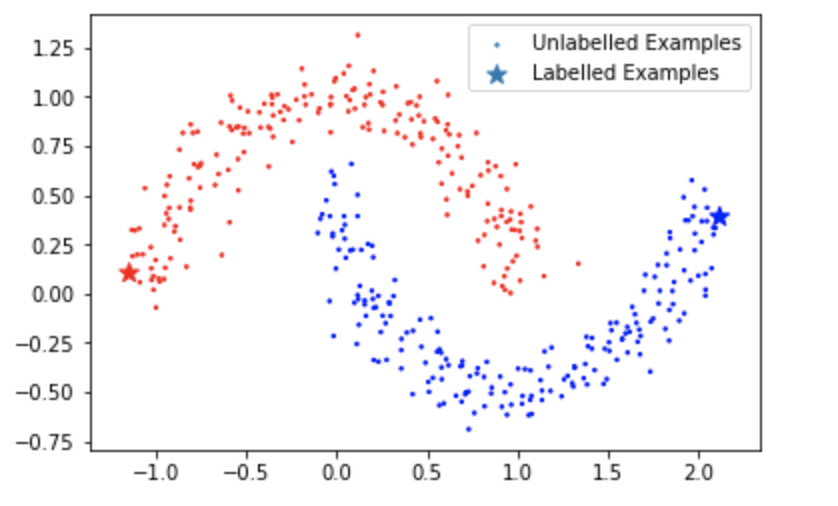
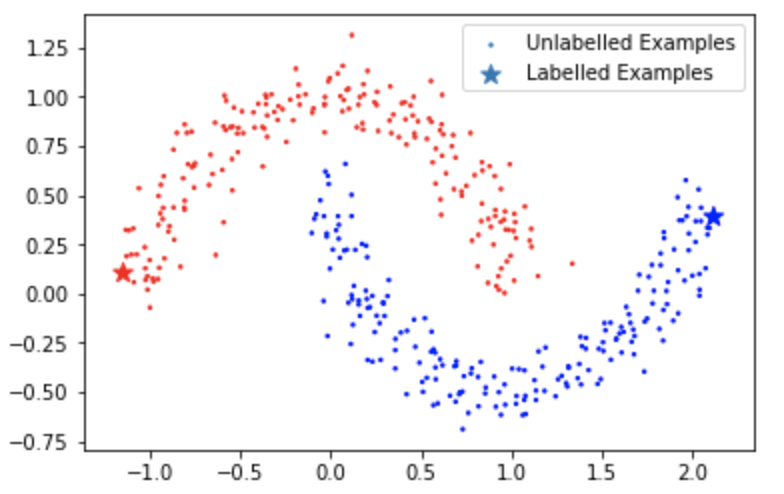
modified post

diff --git a/_posts/2020-5-28-blog-post-5.md b/_posts/2020-5-28-blog-post-5.md
@@ -53,7 +53,51 @@ $$\min_{\alpha_i, \alpha_i', \beta_j} \frac{1}{2} \sum_{i, j=l+1}^{l+n} p_{ij}(\
 
 $\forall i = l+1, \dots, l+m$ and $j = 1, \dots, l$.
 
-We now experiment our new learning framework on the semi-superivised learning problem on the two moons dataset using only two labeled examples. 
+We now experiment our new learning framework on the semi-superivised learning problem on the two moons dataset using only two labeled examples. We first load some necessary packages in Python:
+
+```python
+from sklearn.datasets import make_moons
+import numpy as np
+import matplotlib.pyplot as plt
+import matplotlib
+from cvxopt import matrix
+from cvxopt import solvers
+from numpy import linalg as LA
+```
+
+We now load the two moons dataset and label two examples. I chose the two points with maximum and minimum value on the first direction:
+
+```python
+seed = 1
+X_original, y_original = make_moons(n_samples=400, noise=0.1, random_state=seed)
+y_original[y_original == 0] = -1
+d = X_original.shape[-1]
+
+#X_train, X_test, y_train, y_test = train_test_split(X, y, test_size=0.2, random_state=seed)
+max_idx = list(X_original[:, 0]).index(max(X_original[:, 0]))
+min_idx = list(X_original[:, 0]).index(min(X_original[:, 0]))
+
+#idx = list(range(X_original.shape[0]))
+#idx = list(np.random.randint(low=0, high=X_original.shape[0]-1, size=int(X_original.shape[0]*0.1)))
+idx = [max_idx, min_idx]
+X_lab = X_original[idx]
+y_lab = y_original[idx]
+
+mask = np.ones(X_original[:, 0].shape, bool)
+mask[idx] = False
+X_unlab = X_original[mask]
+y_unlab = y_original[mask]
+
+X = np.concatenate((X_lab, np.repeat(X_original, d, axis=0)))
+y = np.concatenate((y_lab, np.repeat(y_original, d, axis=0)))
+
+colors = ['red','blue']
+plt.scatter(X_unlab[:, 0], X_unlab[:, 1], c=y_unlab, cmap=matplotlib.colors.ListedColormap(colors), s=2)
+plt.scatter(X_lab[:, 0], X_lab[:, 1], c=y_lab, cmap=matplotlib.colors.ListedColormap(colors), marker='*', s=100)
+plt.legend(['Unlabelled Examples', 'Labelled Examples'])
+```
+
+
 
 
 
